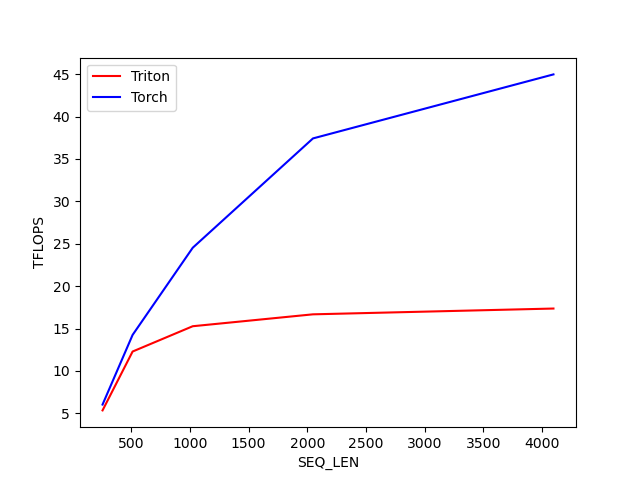
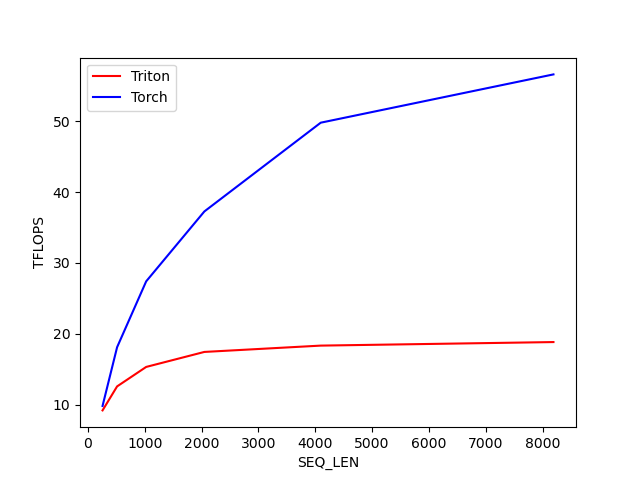
expanded benchmarking

diff --git a/benchmark_results/results.html b/benchmark_results/results.html
@@ -1,6 +1,6 @@
 <html><body>
-<image src="fused_attention-official_docs-fwd-causal=True.png"/>
-<image src="fused_attention-official_docs-fwd-causal=False.png"/>
-<image src="fused_attention-official_docs-bwd-causal=True.png"/>
-<image src="fused_attention-official_docs-bwd-causal=False.png"/>
+<image src="fused_attention-fwd-causal=True.png"/>
+<image src="fused_attention-fwd-causal=False.png"/>
+<image src="fused_attention-bwd-causal=True.png"/>
+<image src="fused_attention-bwd-causal=False.png"/>
 </body></html>

diff --git a/06_attention.py b/06_attention.py
@@ -305,13 +305,6 @@ def _attn_fwd(
             SEQ_LEN,
         )
     
-    # This is needed to compute the logsumexp for the backwards pass. basically instead of saving the maxes 
-    #  and the sums separately, we save them together with the += log() and then a trick we'll see later.
-    m_i += tl.math.log(l_i)  # l_i was composed using the sum & exp operations in _attn_fwd_inner()
-        # this will work because softmax(x_i) = exp(x_i - m_i) / l_i 
-        #                                     = exp(x_i - m_i) / exp(log(l_i)) 
-        #                                     = exp(x_i - m_i - log(l_i))
-    
     # finally dividing by the denominator of our softmax.
     # notice we've already multiplied by V to get O, so this was done out-of-order from naive softmax implementations
     O_block = O_block / l_i.expand_dims(1) # shapes (BLOCK_SIZE_Q, HEAD_DIM) / (BLOCK_SIZE_Q) = (BLOCK_SIZE_Q, HEAD_DIM)
@@ -319,6 +312,17 @@ def _attn_fwd(
         #  are associative. matmul and entry-wise-ops are not normally, but at this level of granularity  it's no longer
         #  actually a matmul but instead individual dot-products. for an example see # TODO put file path here
 
+    # This is needed to compute the logsumexp (LSE) for the backwards pass. basically instead of saving the maxes 
+    #  and the sums separately, we save them together which still works thanks to exponential arithmetic
+    m_i += tl.math.log(l_i)  # l_i was composed using the sum & exp operations in _attn_fwd_inner()
+        # this will work because softmax(x_i) = exp(x_i - m_i) / l_i 
+        #                                     = exp(x_i - m_i) / exp(log(l_i)) 
+        #                                     = exp(x_i - m_i - log(l_i))
+        # personally I'd prefer to do change the name and do LSE_i = m_i + tl.math.log(l_i) since
+        #  that'd be more clear about what we're doing. However, it's inefficient since it'd require
+        #  that we allocate an entire new tensor for LSE. Instead we opt to re-use tensor m to store
+        #  our logsumexp. it's ugly but it gets the job done # TODO is this correct?
+    
     # storing it all back to DRAM
     m_block_ptrs = M_ptr + index_batch_head * SEQ_LEN + offsets_q
     tl.store(m_block_ptrs, m_i)
@@ -594,7 +598,7 @@ class TritonAttention(torch.autograd.Function):
             triton.cdiv(SEQ_LEN, args["BLOCK_SIZE_Q"]), # primary parallelizatoin is across seq_len
             BATCH_SIZE * NUM_HEADS, # parallelize across the dimensions that don't matter
             1, # include the 1 for clarity of total dims even though it's not strictly necessary
-        )
+        ) # TODO remove the 1?
         
         # calling the forward kernel
         _attn_fwd[grid](
@@ -664,7 +668,7 @@ class TritonAttention(torch.autograd.Function):
         NUM_WARPS, NUM_STAGES = 4, 3 
         # here micro and macro block sizes will trade positions over the final two kernels, one # TODO finish explaining
         BLOCK_SIZE_MICRO, BLOCK_SIZE_MACRO = 32, 128
-            # TODO switch this to auto-tune
+            # TODO switch this to autotune. num_warps in [4,8] and block sizes both in [32, 64, 128]
 
         # so as usual we combine batch_size & num_heads along the same parallelization axis
         # and here our preprocessing will also parallelize within the sequence length
@@ -672,7 +676,7 @@ class TritonAttention(torch.autograd.Function):
         D = torch.empty_like(M)  # Shape: (BATCH_SIZE, NUM_HEADS, SEQ_LEN)
             # TODO why do we call it D? what's its purpose?
 
-        # Compute all the elements Di
+        # Compute D which is shape (BATCH_SIZE, NUM_HEADS, SEQ_LEN)
         _attn_backward_preprocess[preprocess_grid](
             O_ptr=O, dO_ptr=dO, D_ptr=D,
             SEQ_LEN=SEQ_LEN,
@@ -773,15 +777,8 @@ def test_op(BATCH_SIZE, NUM_HEADS, SEQ_LEN, HEAD_DIM, causal, dtype=torch.float1
     assert torch.allclose(ref_dQ, tri_dQ, atol=atol, rtol=rtol)
 
 
-test_op(BATCH_SIZE=4, NUM_HEADS=8, SEQ_LEN=1024, HEAD_DIM=64, causal=True)
-test_op(BATCH_SIZE=4, NUM_HEADS=8, SEQ_LEN=1024, HEAD_DIM=64, causal=False)
-print("PASSED")
 
-
-
-attention = TritonAttention.apply
-
-BATCH, N_HEADS, HEAD_DIM = 2, 8, 64
+BATCH, N_HEADS, HEAD_DIM = 32, 32, 64
 # vary seq length for fixed head and batch=4
 configs = []
 for mode in ["fwd", "bwd"]:
@@ -791,7 +788,7 @@ for mode in ["fwd", "bwd"]:
         configs.append(
             triton.testing.Benchmark(
                 x_names=["SEQ_LEN"],
-                x_vals=[2**i for i in range(8, 13)],
+                x_vals=[2**i for i in range(8, 14)], # LOWER 14 IF YOU DON't HAVE ENOUGH RAM
                 line_arg="provider",
                 line_vals=["triton", "torch"],
                 line_names=["Triton", "Torch"],
@@ -807,7 +804,6 @@ for mode in ["fwd", "bwd"]:
                 },
             ))
 
-
 @triton.testing.perf_report(configs)
 def bench_flash_attention(BATCH, H, SEQ_LEN, HEAD_DIM, causal, mode, provider, device=DEVICE):
     assert mode in ["fwd", "bwd"]
@@ -817,7 +813,7 @@ def bench_flash_attention(BATCH, H, SEQ_LEN, HEAD_DIM, causal, mode, provider, d
     v = torch.randn((BATCH, H, SEQ_LEN, HEAD_DIM), dtype=dtype, device=device, requires_grad=True)
     sm_scale = 1.3
     if provider == 'triton':
-        fn = lambda: attention(q, k, v, causal, sm_scale)
+        fn = lambda: TritonAttention.apply(q, k, v, causal, sm_scale)
     if provider == 'torch':
         fn = lambda: torch.nn.functional.scaled_dot_product_attention(q, k, v, is_causal=causal)
     if mode == "bwd":
@@ -833,5 +829,13 @@ def bench_flash_attention(BATCH, H, SEQ_LEN, HEAD_DIM, causal, mode, provider, d
         total_flops *= 2.5  # 2.0(bwd) + 0.5(recompute)
     return total_flops * 1e-12 / (ms * 1e-3)
 
+if __name__ == "__main__":
+    # always run unit-tests
+    test_op(BATCH_SIZE=4, NUM_HEADS=8, SEQ_LEN=1024, HEAD_DIM=64, causal=True)
+    test_op(BATCH_SIZE=4, NUM_HEADS=8, SEQ_LEN=1024, HEAD_DIM=64, causal=False)
+    print("PASSED")
 
-bench_flash_attention.run(save_path='./benchmark_results/', print_data=True)
+    # Only run benchmark if explicitly requested
+    import sys
+    if len(sys.argv) > 1 and sys.argv[1] == "--benchmark":
+        bench_flash_attention.run(save_path='./benchmark_results/', print_data=True)
